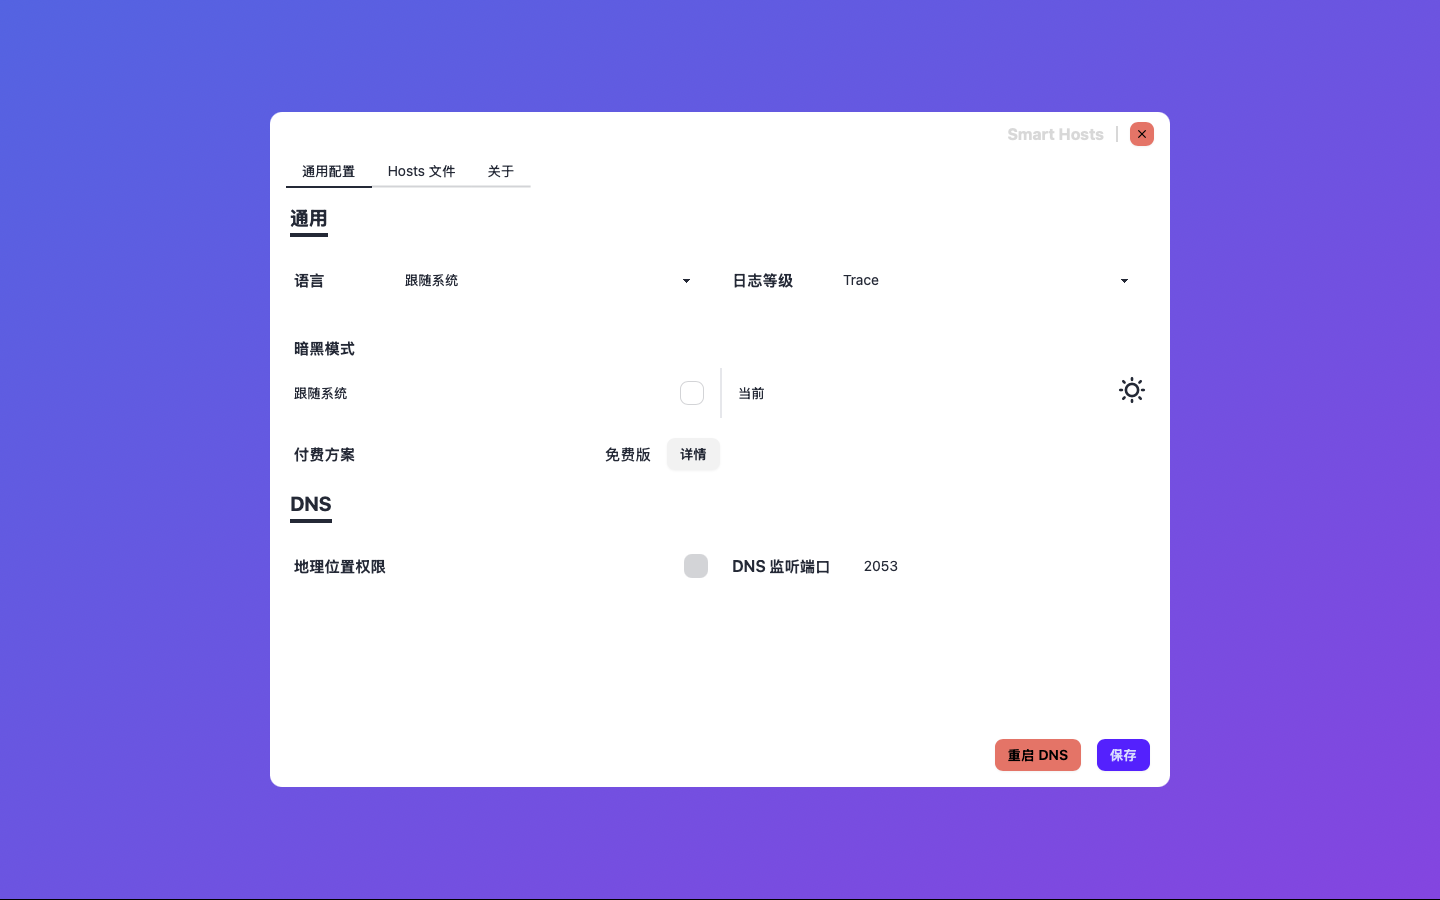
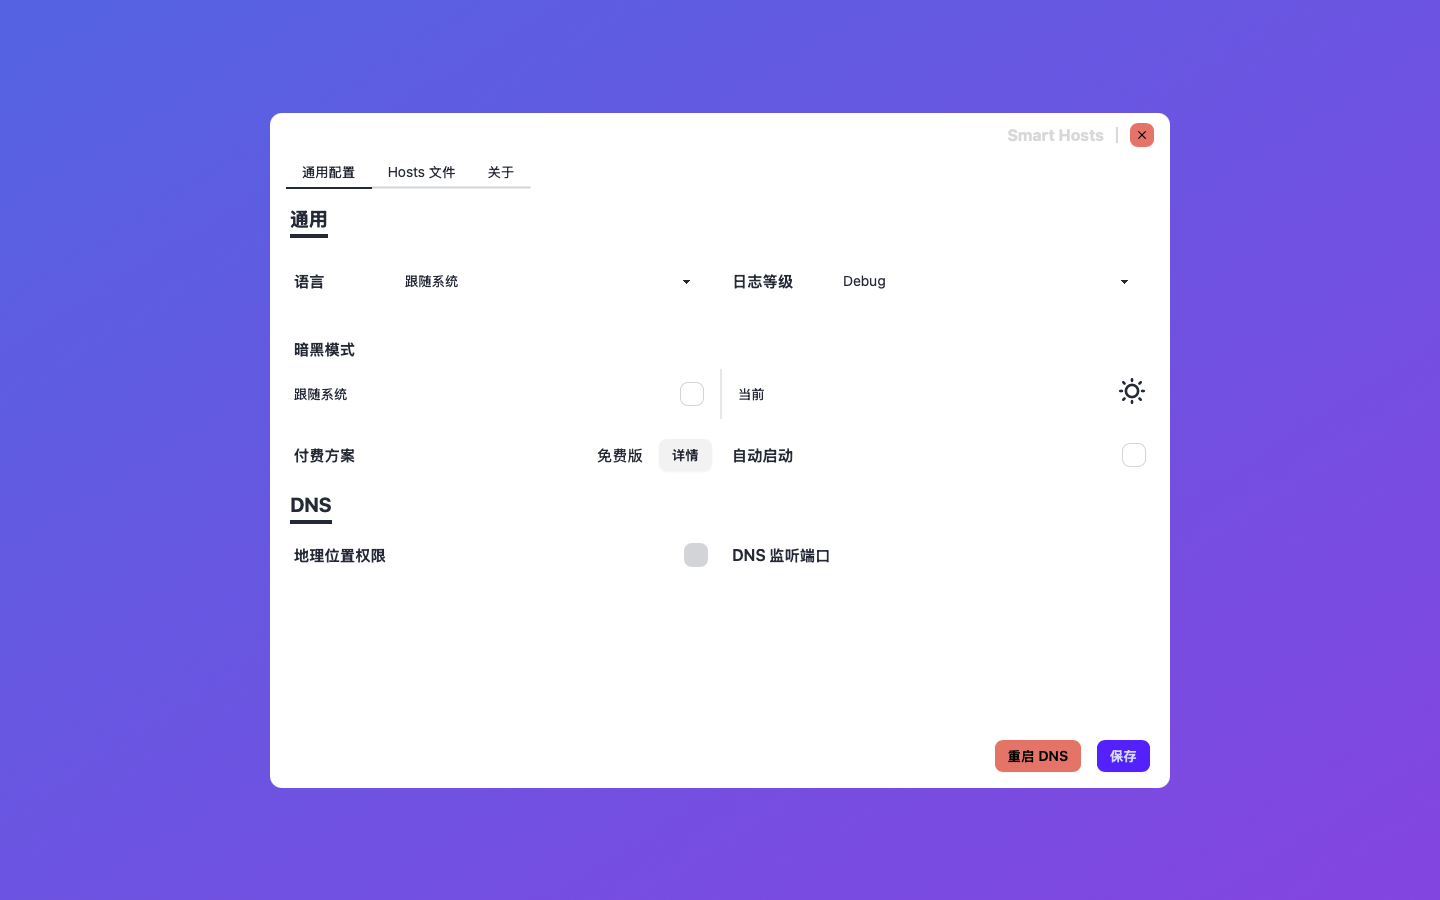
Update README.md

diff --git a/profile/README.md b/profile/README.md
@@ -58,7 +58,15 @@ Serve your smart hosts file as a DNS server.
 
 ## Changelogs
 
-### v0.3.0
+### v0.4.0 (in TestFlight)
+
+- Added an auto-start configuration option
+- Fixed missing SSID wildcard matching limitation notice for the free plan
+  and updated feature descriptions for the Pro plan
+- Upgraded multiple third-party dependencies
+- Updated the default Hosts file example
+
+### v0.3.0 (2024-12-29)
 
 - **SSID**: Supports Unix shell-style wildcard matching
 - **Tray UI**: Updated background color

diff --git a/profile/README.zh.md b/profile/README.zh.md
@@ -56,7 +56,14 @@
 
 ## 变更日志
 
-### v0.3.0
+### v0.4.0 (in TestFlight)
+
+- 增加自动启动配置项
+- 修复 SSID 通配符匹配缺失免费计划限制提示，及 Pro 计划的功能描述
+- 更新多个第三方依赖
+- 更新默认 Hosts 文件示例
+
+### v0.3.0 (2024-12-29)
 
 - SSID 支持 Unix Shell Style 通配符匹配
 - 更新 Tray UI 的背景颜色
